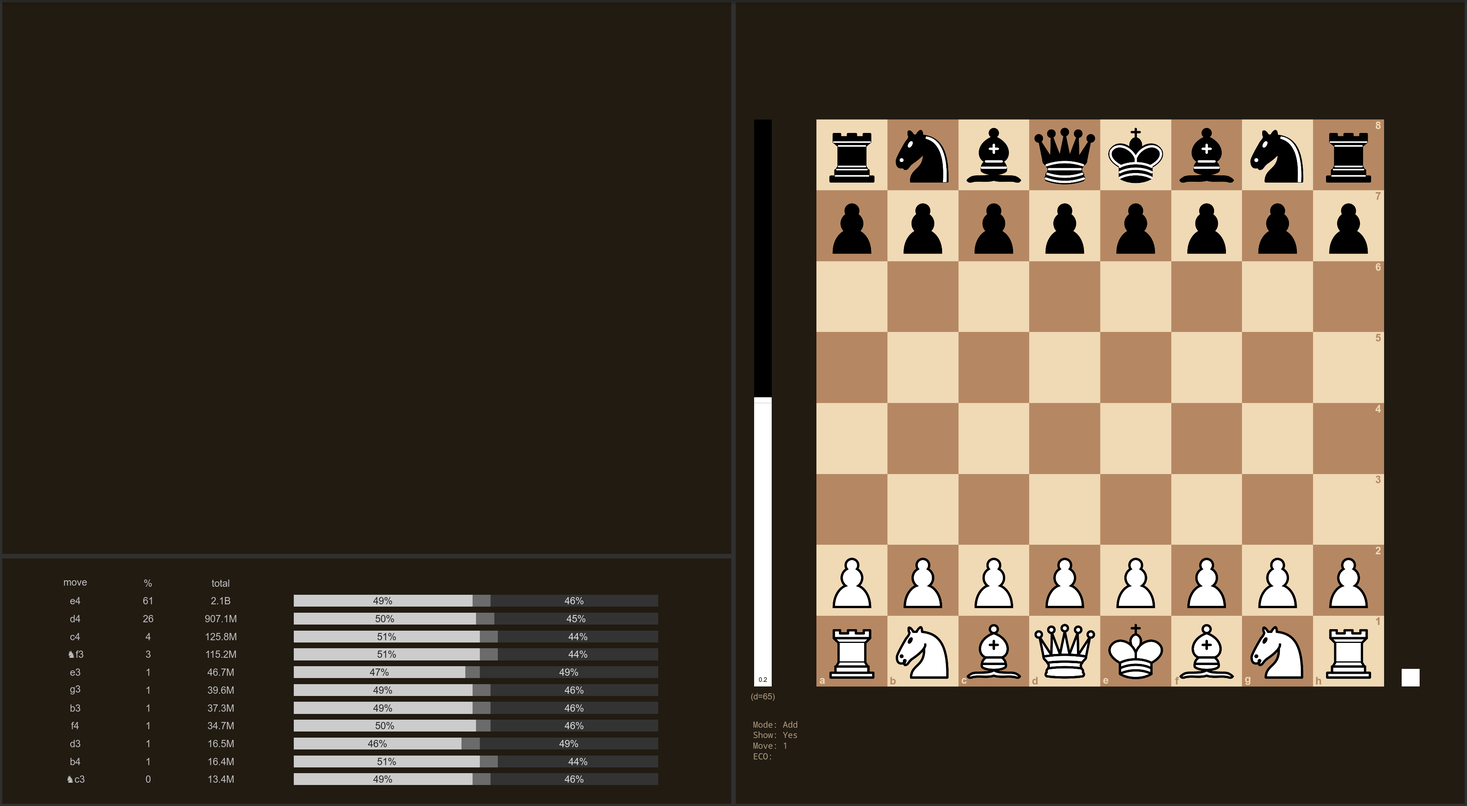
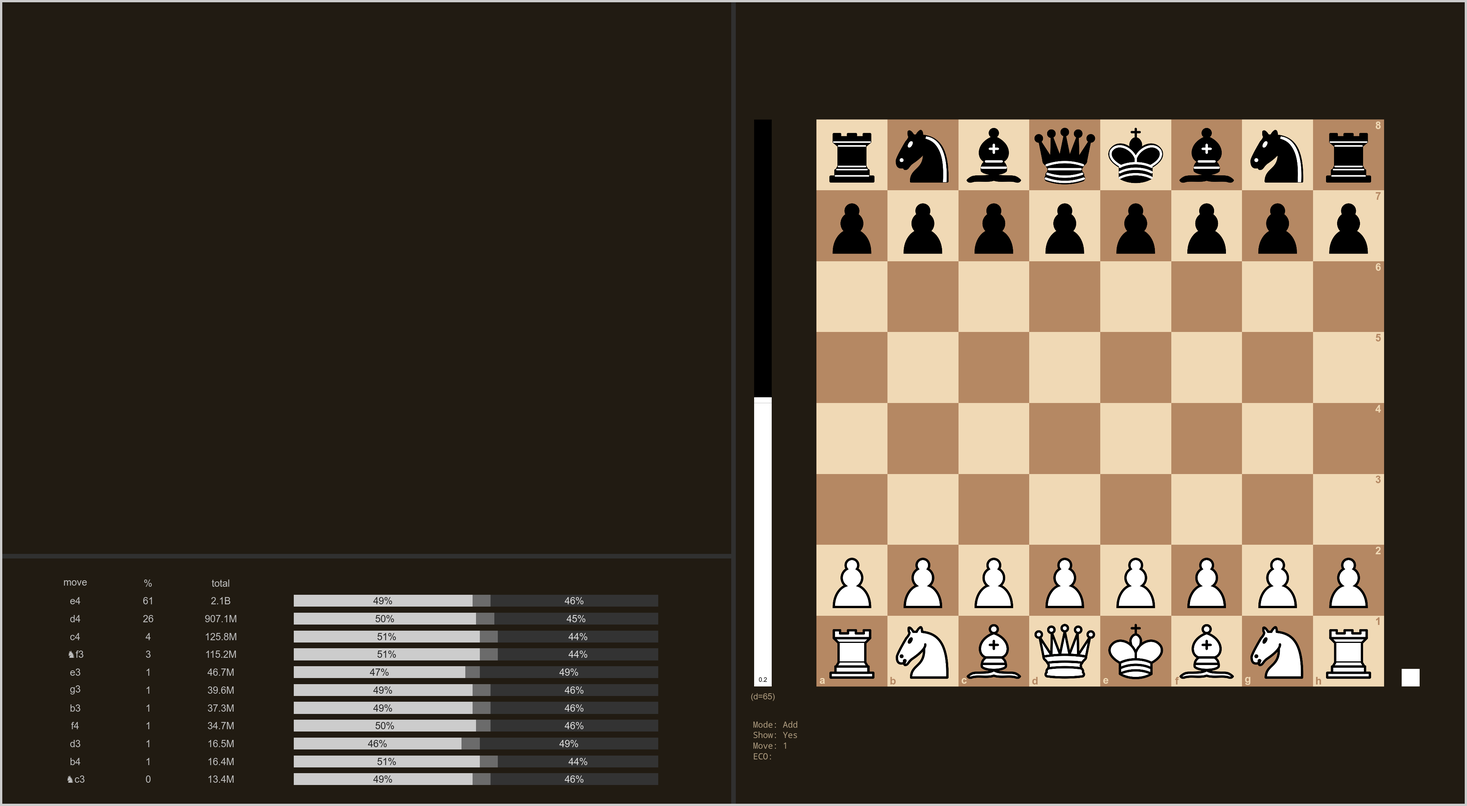
In progress graph, can toggle x-axis now.

Changed region(s): [[0.0, 0.9858, 1.0, 1.0], [0.9688, 0.0, 1.0, 0.0308], [0.0, 0.0, 0.0312, 0.0308]]

diff --git a/docs/reference/chesstrainer-package.html b/docs/reference/chesstrainer-package.html
@@ -31,7 +31,7 @@ The main purpose of the chesstrainer package is to create sequences of moves (li
       </button>
       <span class="navbar-brand">
         <a class="navbar-link" href="../index.html">chesstrainer</a>
-        <span class="version label label-default" data-toggle="tooltip" data-placement="bottom" title="">0.9-179</span>
+        <span class="version label label-default" data-toggle="tooltip" data-placement="bottom" title="">0.9-180</span>
       </span>
     </div>
 
@@ -93,7 +93,9 @@ The main purpose of the chesstrainer package is to create sequences of moves (li
 
 
 <p>To start the trainer, run <code><a href="play.html">play()</a></code> from the console. When starting the trainer for the first time, a directory for storing settings, a cache directory, and a directory for storing sequences are created. A few example sequences also come with the package and you will receive a prompt whether to copy these sequences to the sequence directory. To familiarize yourself with the trainer, it would be good to do so. Finally, you will receive a prompt to enter a player name. Choose a name and press enter.</p>
-<p>The trainer then starts in <em>add mode</em> (see the ‘Note’ section at the bottom if you receive an error that the graphics device does not support event handling; for Windows users, see also the ‘Note for Windows Users’ section). For now, click on the window showing the chess board and press <code>&lt;space&gt;</code> (i.e., the space bar), which will switch to the <em>test mode</em> (note: in this manual, key presses are indicated as: <code>&lt;key&gt;</code>). One of the existing sequences will then be chosen at random. The trainer may immediately prompt you to play a certain opening (via a comment at the top of the window), it may make some moves for you, or it may start at a later position during a game. Either way, you will then have to make the correct move based on the position. You do this by either left-clicking and dragging the piece to be played from its current position to the desired target square or by left-clicking on the piece to be moved and then left-clicking on the target square.</p>
+<p><img src="figures/console_first_run.png" width="900"></p>
+<p>The trainer then starts in <em>add mode</em> (see the ‘Note’ section at the bottom if you receive an error that the graphics device does not support event handling; for Windows users, see also the ‘Note for Windows Users’ section). For now, click on the window showing the chess board and press <code>&lt;space&gt;</code> (i.e., the space bar), which will switch to <em>test mode</em> (note: in this manual, key presses are indicated as: <code>&lt;key&gt;</code>). One of the existing sequences will then be chosen at random. The trainer may immediately prompt you to play a certain opening (via a comment at the top of the window), it may make some moves for you, or it may start at a later position during a game. Either way, you will then have to make the correct move based on the position and instructions. You do this by either left-clicking and dragging the piece to be played from its current position to the desired target square or by left-clicking on the piece to be moved and then left-clicking on the target square.</p>
+<p><img src="figures/play_sequence.png" width="900"></p>
 <p>Sidenote: If the text on the bottom or other visual elements are cut off, you can use the <code>&lt;{&gt;</code> and <code>&lt;}&gt;</code> keys to decrease/increase the margin width.</p>
 <p>The trainer will then make the next move, after which you will then again have to make the correct move. This will continue until the end of the sequence. If you do not know what the correct move is, the <code>&lt;h&gt;</code> key will provide a hint showing which piece to move. Pressing <code>&lt;h&gt;</code> for a second time will show the target square. Once the sequence has ended, left-clicking starts a new sequence.</p>
 <p>In <em>test mode</em>, information is shown at the bottom about the current mode, the name of the current sequence, the player name, the current move number and the total number of moves of the sequence, the number of rounds (how many times the sequence has been played so far), the age of the sequence (how many days ago the sequence was last played), the estimated difficulty of the sequence (see below), and the sequence score (also see below).</p>
@@ -107,7 +109,11 @@ The main purpose of the chesstrainer package is to create sequences of moves (li
 <p>The trainer keeps track of a score for each sequence. For a new sequence, the score starts out at 100 points. The score is multiplied by 0.8 after completing a sequence without any mistakes. When making a wrong move when playing a sequence, the score is increased by 40 points (up to a maximum of 100). You can use the <code>&lt;t&gt;</code> key to take back the score adjustment after making a wrong move (but you should only do this when making the wrong move accidentally). Receiving a hint with the <code>&lt;h&gt;</code> key increases the score by 20 points (40 points when asking for both the starting and the target square, so this is equivalent to making a mistake).</p>
 <p>The trainer uses the score to choose the next sequence. Sequences with higher scores have a higher chance to be presented. The probability of playing a particular sequence is computed with \(p_i = s_i^e / \sum s_i^e\), where \(s_i\) is the score of the \(i\)th sequence and \(e\) is the ‘exponent value’. This is set to 2 by default and enhances the probability that sequences with higher scores are more likely to be played. The exponent value can be adjusted with the <code>&lt;^&gt;</code> (or <code>&lt;6&gt;</code>) key. Setting the exponent value to 0 makes all sequences equally likely to be played. Setting it to a large value (e.g., 10) makes it very likely that the sequence with the highest score is played next. The score for the current sequence can be set manually with the <code>&lt;%&gt;</code> key. Setting the score to 0 means that the sequence has a zero probability of being presented.</p>
 <p>Using the <code>&lt;M&gt;</code> key, you can trigger a mistake. This is useful if you made the correct move(s) but with a lot of uncertainty and want to increase the chances that you will encounter the sequence again in the future.</p>
-<p>After completing a sequence, the current score for the sequence is saved (together with the number of times that the sequence has been played and when it was last played) to the sequence file. This way, your progress in learning the sequence is saved permanently across sessions. Using the <code>&lt;g&gt;</code> key, a progress graph (showing the sequence scores over consecutive rounds) for the current sequence can be shown (if the sequence has been played before). This is useful to check whether progress is being made in learning the sequence. You can zoom into the graph by left-clicking twice (once for the start and once for the end of the interval). This can be repeated to zoom in further. Clicking the right mouse button zooms all the way out. Clicking outside of the graph, right-clicking anywhere when zoomed out, or the <code>&lt;escape&gt;</code> key closes the graph.</p>
+<p>After completing a sequence, the current score for the sequence is saved (together with the number of times that the sequence has been played and when it was last played) to the sequence file. This way, your progress in learning the sequence is saved permanently across sessions. Using the <code>&lt;g&gt;</code> key, a progress graph (showing the sequence scores over consecutive rounds) for the current sequence can be shown (if the sequence has been played before). This is useful to check whether progress is being made in learning the sequence. You can zoom into the graph by left-clicking twice (once for the start and once for the end of the interval). This can be repeated to zoom in further. Clicking the right mouse button zooms all the way out. With the <code>&lt;down&gt;/&lt;up&gt;</code> arrows (or the middle mouse button), you can toggle whether the rounds shown on the x-axis are equidistant or their distance is based on their actual dates. Clicking outside of the graph, right-clicking anywhere when zoomed out, or the <code>&lt;escape&gt;</code> key closes the graph.</p>
+<p>Below you can see examples of progress graphs for two sequences, one which was easy to learn and memorize, while the other one is more difficult.</p>
+<p><img src="figures/progress_graph.png" width="900"></p>
+<p></p>
+<p></p>
 <p>Using the <code>&lt;G&gt;</code> key, you can toggle whether the progress graph will be automatically shown at the end of each completed sequence.</p>
 <p>With <code>&lt;F11&gt;</code> (or <code>&lt;Ctrl-i&gt;</code>), you can obtain a plot of the average score of all sequences as a function of each completed sequence during the current session. The horizontal dotted line corresponds to the average score at the beginning of the session. This is useful to check whether progress is being made in learning all of the sequences.</p>
     </div>
@@ -172,16 +178,16 @@ The main purpose of the chesstrainer package is to create sequences of moves (li
     <h2>Adding New Sequences</h2>
 
 
-<p>As described above, the trainer comes with a few example sequences to teach you how it can be used, but serious use of the trainer requires that you add your own sequences. With <code>&lt;space&gt;</code>, you can switch into the <em>add mode</em>, where you can enter new sequences. The first thing to decide is whether the player should play with white or black. With the <code>&lt;f&gt;</code> key, the board can be flipped accordingly (the player always plays with the pieces shown at the bottom). Next, you need to decide whether some moves will be automatically played at the beginning of a sequence. If some moves should be played automatically, then simply make these moves on the board. Once you arrive at the position where a player should start making moves, press <code>&lt;z&gt;</code> (note that ‘Show’ at the bottom left then turns from ‘Yes’ to ‘No’). Now continue playing the line as it should be played. If you make a mistake when playing a move, use the <code>&lt;t&gt;</code> key to take the move back. Once the sequence is complete, use the <code>&lt;s&gt;</code> key to save the sequence. You will be prompted for a filename in the console. Once the sequence has been saved, it will automatically become part of the sequences that may be presented in the <em>test mode</em>.</p>
+<p>As described above, the trainer comes with a few example sequences to teach you how it can be used, but serious use of the trainer requires that you add your own sequences. With <code>&lt;space&gt;</code>, you can switch into <em>add mode</em>, where you can enter new sequences. The first thing to decide is whether the player should play with white or black. With the <code>&lt;f&gt;</code> key, the board can be flipped accordingly (the player always plays with the pieces shown at the bottom). Next, you need to decide whether some moves will be automatically played at the beginning of a sequence. If some moves should be played automatically, then simply make these moves on the board. Once you arrive at the position where a player should start making moves, press <code>&lt;z&gt;</code> (note that ‘Show’ at the bottom left then turns from ‘Yes’ to ‘No’). Now continue playing the line as it should be played. If you make a mistake when playing a move, use the <code>&lt;t&gt;</code> key to take the move back. Once the sequence is complete, use the <code>&lt;s&gt;</code> key to save the sequence. You will be prompted for a filename in the console. Once the sequence has been saved, it will automatically become part of the sequences that may be presented in <em>test mode</em>.</p>
 <p>A sequence may also start immediately at the starting position. Here, you will press <code>&lt;z&gt;</code> right at the beginning. Since it is then essentially impossible for a player to know what they should play (since there are many sensible moves one could make from the starting position of a chess game), you will have to instruct the player what they should do. Using the <code>&lt;c&gt;</code> key, you can add a comment to the current move which will be shown to the player (before they have to make the move). For example, you could tell the player to play the Spanish (Ruy Lopez) opening. You should then make the appropriate moves on the board.</p>
 <p>Comments can be added to any move using the <code>&lt;c&gt;</code> key. These will be shown before the move is played. This may be useful if one could venture into multiple sensible lines in a given position. You would then have to instruct the player to make a particular move (either by telling the player directly which move to make or giving some appropriate hint, such as the name of a particular line/variation). Comments can also be used to mention variation names or other useful information. To wrap comments across lines, you can use ‘<code>\n</code>’ in the comment text.</p>
 <p>If a sequence should commence not at the starting position of a chess game, but later on, you can move the pieces into the desired position and then use the <code>&lt;0&gt;</code> key to make the current position the starting position for a particular sequence. Alternatively, you can use <code>&lt;b&gt;</code> to start a board editor (see below for details).</p>
 <p>Occasionally, you may want to construct sequences where the player also has to make the moves of the opposing side (i.e., for the computer). The <code>&lt;Z&gt;</code> key can be used to toggle whether the computer moves will be automatically played or not (when this is toggled off, then this will also be indicated at the bottom left). For example, you could memorize entire games by pressing the <code>&lt;z&gt;</code> and <code>&lt;Z&gt;</code> keys at the very beginning and then making all moves of the game. A comment should then be added before making the first move to provide a reminder which game should be played.</p>
 <p>The <code>&lt;e&gt;</code> key can be used to edit the comments for a particular sequence. This way, you can also add a ‘start comment’ and/or an ‘end comment’ to a particular sequence (the former will be shown in an overlay box before the sequence starts, the latter at the top after the last move). The <code>&lt;E&gt;</code> key opens up the <code><a href="https://rdrr.io/r/utils/edit.html" class="external-link">data editor</a></code> on the data frame that contains the moves for the current sequence. This can also be used to add, edit, and remove comments in the <code>comment</code> column or make adjustments to the other columns (but this should only be done if their meaning is clear).</p>
 <p>Once a number of moves have been made for the sequence, the <code>&lt;left&gt;</code> and <code>&lt;right&gt;</code> arrow keys can be used to go back or forward one move. With the <code>&lt;1&gt;</code> or <code>&lt;up&gt;</code> arrow keys, you can jump to the first move that needs to be made by the player (i.e., the first move where ‘Show’ is set to ‘No’) or to the very beginning of the sequence if one is already at or before this position in the sequence. The <code>&lt;2&gt;</code> or <code>&lt;down&gt;</code> arrow keys jump to the very end of the sequence. The <code>&lt;3&gt;</code>, <code>&lt;4&gt;</code>, and <code>&lt;5&gt;</code> keys jump to the first quarter, middle, and third quarter of the sequence (when the sequence consists of very few moves, these different positions may not be differentiable). Note that when making a move when not looking at the very end of the sequence, then this deletes all subsequent moves that were already part of the sequence.</p>
-<p>With the <code>&lt;?&gt;</code> key, you can search for sequences that start with the same moves that have been entered/played so far (this also works in the <em>test mode</em>). If any matching sequences are found, they will be shown in the console (followed by the next moves that are part of these sequences). A prompt will ask if they should be selected. This is useful for checking what sequences are already available based on some initial moves (and then practicing these sequences) or finding other sequences similar to the one currently being played. Alternatively, with the <code>&lt;'&gt;</code> key, you can search for sequences that include the current position anywhere in the sequence (irrespective of the particular moves that led to the position). The <code>&lt;]&gt;</code> key does the same thing, but only shows the sequences (without selecting them). The <code>&lt;[&gt;</code> key does the same thing, but only shows a frequency table of the next moves in the sequences found. With the <code>&lt;;&gt;</code> key, you can search for sequences that end on the current position. With the <code>&lt;:&gt;</code> key, you can search for sequences where the last-moved piece is on its current square. Note that all of these searches account for whether the board is flipped or not (i.e., only sequences are shown where the player is either moving the white or black pieces).</p>
+<p>With the <code>&lt;?&gt;</code> key, you can search for sequences that start with the same moves that have been entered/played so far (this also works in <em>test mode</em>). If any matching sequences are found, they will be shown in the console (followed by the next moves that are part of these sequences). A prompt will ask if they should be selected. This is useful for checking what sequences are already available based on some initial moves (and then practicing these sequences) or finding other sequences similar to the one currently being played. Alternatively, with the <code>&lt;'&gt;</code> key, you can search for sequences that include the current position anywhere in the sequence (irrespective of the particular moves that led to the position). The <code>&lt;]&gt;</code> key does the same thing, but only shows the sequences (without selecting them). The <code>&lt;[&gt;</code> key does the same thing, but only shows a frequency table of the next moves in the sequences found. With the <code>&lt;;&gt;</code> key, you can search for sequences that end on the current position. With the <code>&lt;:&gt;</code> key, you can search for sequences where the last-moved piece is on its current square. Note that all of these searches account for whether the board is flipped or not (i.e., only sequences are shown where the player is either moving the white or black pieces).</p>
 <p>With <code>&lt;.&gt;</code>, you can select the last saved sequence (if one was saved before in the current session). This is useful for checking a newly created sequence in <em>test mode</em> and/or creating multiple branching lines from the ending position of this sequence. After selecting a single sequence, the <code>&lt;a&gt;</code> key will create a copy of the current sequence, which can then be extended with additional moves and saved as a new sequence. The same also works in <em>test mode</em> when playing a particular sequence. The <code>&lt;A&gt;</code> key does the same thing, but immediately switches to <em>add mode</em> starting at the current position. At the end of a sequence, the right mouse button also switches to <em>add mode</em>.</p>
-<p>In <em>add</em> or <em>test mode</em>, you can bookmark a sequence with the <code>&lt;&lt;&gt;</code> key. In <em>add mode</em>, the last saved sequence is bookmarked. In <em>test mode</em>, the currently played sequence is bookmarked. With the <code>&lt;&gt;&gt;</code> key, you can select and manage bookmarks (use <code>&lt;F1&gt;</code> while managing the bookmarks to obtain help). This is useful for creating multiple branching lines from the ending position of certain sequences or to remember sequences that you want to come back to at a later point.</p>
+<p>In <em>add mode</em> or <em>test mode</em>, you can bookmark a sequence with the <code>&lt;&lt;&gt;</code> key. In <em>add mode</em>, the last saved sequence is bookmarked. In <em>test mode</em>, the currently played sequence is bookmarked. With the <code>&lt;&gt;&gt;</code> key, you can select and manage bookmarks (use <code>&lt;F1&gt;</code> while managing the bookmarks to obtain help). This is useful for creating multiple branching lines from the ending position of certain sequences or to remember sequences that you want to come back to at a later point.</p>
 <p>When creating new opening sequences, the trainer tries to recognize the opening played and indicates the ECO code and opening name at the bottom left.</p>
 <p>Also, the trainer automatically recognizes move transpositions (i.e., if there are sequences with the same position that were obtained via a different move order or via different moves). If such sequences are found, their names are printed to the console. This check can be toggled on/off with the <code>&lt;T&gt;</code> key.</p>
 <p>Also, any moves made are compared against the existing sequences. If there are sequences with the same current position and the move made is not one of the moves that are part of these sequences, then this will be noted at the top. You can toggle this on/off with the <code>&lt;C&gt;</code> key.</p>
@@ -191,7 +197,7 @@ The main purpose of the chesstrainer package is to create sequences of moves (li
     <h2>Querying the Lichess Database</h2>
 
 
-<p>When pressing the <code>&lt;i&gt;</code> key, the trainer queries the Lichess games database (<code>https://database.lichess.org/#standard_games</code>) for the current position. If the position is found, the most frequently played moves are shown in the console, including the percentage of games won by white, the percentage of games drawn, and the percentage of games won by black.</p>
+<p>When pressing the <code>&lt;i&gt;</code> key, the trainer queries the Lichess games database (<code>https://database.lichess.org</code>) for the current position. If the position is found, the most frequently played moves are shown in the console, including the percentage of games won by white, the percentage of games drawn, and the percentage of games won by black.</p>
 <p>With <code>&lt;F8&gt;</code>, you can adjust some related settings, namely which time controls and which player ratings should be included in the query, whether to query the regular player database or the masters database (for the latter, the time control and rating settings are not relevant), the minimum frequency of moves, the minimum play percentage of the moves, the length of the bars indicating the outcome percentages, how to sort the moves (either by their frequency or by their win percentage), whether to invert the bar (in case you use white text on a dark background in the console), and where to display the moves (either in the console or in a separate plotting window).</p>
 <p>When using a separate plotting window, one should arrange the various windows so that the board, console, and window for the Lichess moves are placed side-by-side. A possible arrangement is shown below.</p>
 <p><img src="figures/arrangement.png" width="900"></p>
@@ -244,7 +250,7 @@ The main purpose of the chesstrainer package is to create sequences of moves (li
 <p>Using <code>&lt;t&gt;</code>, you can take back the last move (i.e., the move played by the computer and your own move), so that it is again your move to play.</p>
 <p>As when adding sequences, the moves made are compared against the existing sequences. If there are sequences with the same current position and the move made is not one of the moves that are part of these sequences, then this will be noted at the top. You can toggle this on/off with the <code>&lt;C&gt;</code> key.</p>
 <p>The <code>&lt;left&gt;</code>, <code>&lt;right&gt;</code>, <code>&lt;up&gt;</code>, and <code>&lt;down&gt;</code> arrows and the <code>&lt;1&gt;</code>, <code>&lt;2&gt;</code>, <code>&lt;3&gt;</code>, <code>&lt;4&gt;</code>, and <code>&lt;5&gt;</code> keys work the same as described earlier (except that <code>&lt;1&gt;</code> always jumps to the start of the game). This automatically takes you into the <em>analysis mode</em>, where you can try out variations and/or force the computer to make a different move from a given position. Before doing so, you can store the current game (i.e., sequence of moves and current position) as the main variation with the <code>&lt;0&gt;</code> key. Using the <code>&lt;9&gt;</code> key, you can jump back to the end of this main variation.</p>
-<p>Once in <em>play mode</em>, the <code>&lt;\&gt;</code> key toggles between the analysis and the play mode. On the other hand, <code>&lt;space&gt;</code> takes you back to the mode that was active before the <em>play mode</em> was initially chosen.</p>
+<p>When in <em>play mode</em>, the <code>&lt;\&gt;</code> key toggles between the analysis and the play mode. On the other hand, <code>&lt;space&gt;</code> takes you back to the mode that was active before the <em>play mode</em> was initially chosen.</p>
     </div>
     <div id="play-against-the-lichess-database">
     <h2>Play Against the Lichess Database</h2>

diff --git a/docs/reference/playsound.html b/docs/reference/playsound.html
@@ -29,7 +29,7 @@
       </button>
       <span class="navbar-brand">
         <a class="navbar-link" href="../index.html">chesstrainer</a>
-        <span class="version label label-default" data-toggle="tooltip" data-placement="bottom" title="">0.9-179</span>
+        <span class="version label label-default" data-toggle="tooltip" data-placement="bottom" title="">0.9-180</span>
       </span>
     </div>
 
@@ -103,7 +103,7 @@
 <p>Windows does not provide a simple way to play sound files from the command line by default. To make sounds work under Windows, one can download the lightweight and open-source mpg123 player from <code>https://www.mpg123.de</code> (click on ‘download’, go to ‘Win32 and Win64 binaries’, choose the link for the 64 bit binary, download the ‘static’ zip file, extract it to some directory on your computer, and place this directory on your system path; if you do not know how to do this last step, see: <code>https://stackoverflow.com/q/9546324/2615367</code>).</p>
 <p>You can also use the <code><a href="install_mpg123.html">install_mpg123</a></code> function to install the mpg123 player automatically. When running the trainer, it will automatically detect this installation and make use of it to play sounds.</p>
 <p>Unfortunately, mpg123 cannot control the output volume, so adjusting the sound volume via the trainer has no effect for this player.</p>
-<p><em>For advanced users:</em></p>
+<p><strong>For advanced users:</strong></p>
 <p>If the sound is not working, but you know what the appropriate command is that will work on your system, you can write your own <code>playsound</code> function (see the code for <code>playsound</code> to use as a template). Then use <code>assignInNamespace("playsound", playsound, ns="chesstrainer")</code> to replace the <code>playsound()</code> function with your own version. Then use the example code below to test if the sound is working.</p>
     </div>
     <div id="value">

diff --git a/docs/news/index.html b/docs/news/index.html
@@ -29,7 +29,7 @@
       </button>
       <span class="navbar-brand">
         <a class="navbar-link" href="../index.html">chesstrainer</a>
-        <span class="version label label-default" data-toggle="tooltip" data-placement="bottom" title="">0.9-179</span>
+        <span class="version label label-default" data-toggle="tooltip" data-placement="bottom" title="">0.9-180</span>
       </span>
     </div>
 
@@ -79,7 +79,7 @@
     </div>
 
     <div class="section level2">
-<h2 class="page-header" data-toc-text="0.9-179" id="chesstrainer-09-179-2026-07-24">chesstrainer 0.9-179 (2026-07-24)<a class="anchor" aria-label="anchor" href="#chesstrainer-09-179-2026-07-24"></a></h2>
+<h2 class="page-header" data-toc-text="0.9-180" id="chesstrainer-09-180-2026-07-25">chesstrainer 0.9-180 (2026-07-25)<a class="anchor" aria-label="anchor" href="#chesstrainer-09-180-2026-07-25"></a></h2>
 <ul><li>lots of improvements since the initial version (way too many to list here)</li></ul></div>
     <div class="section level2">
 <h2 class="page-header" data-toc-text="0.1-0" id="chesstrainer-01-0-2024-12-17">chesstrainer 0.1-0 (2024-12-17)<a class="anchor" aria-label="anchor" href="#chesstrainer-01-0-2024-12-17"></a></h2>

diff --git a/docs/authors.html b/docs/authors.html
@@ -29,7 +29,7 @@
       </button>
       <span class="navbar-brand">
         <a class="navbar-link" href="index.html">chesstrainer</a>
-        <span class="version label label-default" data-toggle="tooltip" data-placement="bottom" title="">0.9-179</span>
+        <span class="version label label-default" data-toggle="tooltip" data-placement="bottom" title="">0.9-180</span>
       </span>
     </div>
 
@@ -94,13 +94,13 @@
 
     <p>Viechtbauer W (2026).
 <em>chesstrainer: Chess Training Program</em>.
-R package version 0.9-179, <a href="https://github.com/wviechtb/chesstrainer" class="external-link">https://github.com/wviechtb/chesstrainer</a>.
+R package version 0.9-180, <a href="https://github.com/wviechtb/chesstrainer" class="external-link">https://github.com/wviechtb/chesstrainer</a>.
 </p>
     <pre>@Manual{,
   title = {chesstrainer: Chess Training Program},
   author = {Wolfgang Viechtbauer},
   year = {2026},
-  note = {R package version 0.9-179},
+  note = {R package version 0.9-180},
   url = {https://github.com/wviechtb/chesstrainer},
 }</pre>
 

diff --git a/docs/404.html b/docs/404.html
@@ -52,7 +52,7 @@
       </button>
       <span class="navbar-brand">
         <a class="navbar-link" href="https://wviechtb.github.io/chesstrainer/index.html">chesstrainer</a>
-        <span class="version label label-default" data-toggle="tooltip" data-placement="bottom" title="">0.9-179</span>
+        <span class="version label label-default" data-toggle="tooltip" data-placement="bottom" title="">0.9-180</span>
       </span>
     </div>
 

diff --git a/docs/reference/cleanup.html b/docs/reference/cleanup.html
@@ -29,7 +29,7 @@
       </button>
       <span class="navbar-brand">
         <a class="navbar-link" href="../index.html">chesstrainer</a>
-        <span class="version label label-default" data-toggle="tooltip" data-placement="bottom" title="">0.9-179</span>
+        <span class="version label label-default" data-toggle="tooltip" data-placement="bottom" title="">0.9-180</span>
       </span>
     </div>
 

diff --git a/docs/reference/index.html b/docs/reference/index.html
@@ -29,7 +29,7 @@
       </button>
       <span class="navbar-brand">
         <a class="navbar-link" href="../index.html">chesstrainer</a>
-        <span class="version label label-default" data-toggle="tooltip" data-placement="bottom" title="">0.9-179</span>
+        <span class="version label label-default" data-toggle="tooltip" data-placement="bottom" title="">0.9-180</span>
       </span>
     </div>
 

diff --git a/docs/reference/install_mpg123.html b/docs/reference/install_mpg123.html
@@ -29,7 +29,7 @@
       </button>
       <span class="navbar-brand">
         <a class="navbar-link" href="../index.html">chesstrainer</a>
-        <span class="version label label-default" data-toggle="tooltip" data-placement="bottom" title="">0.9-179</span>
+        <span class="version label label-default" data-toggle="tooltip" data-placement="bottom" title="">0.9-180</span>
       </span>
     </div>
 

diff --git a/docs/reference/install_stockfish.html b/docs/reference/install_stockfish.html
@@ -29,7 +29,7 @@
       </button>
       <span class="navbar-brand">
         <a class="navbar-link" href="../index.html">chesstrainer</a>
-        <span class="version label label-default" data-toggle="tooltip" data-placement="bottom" title="">0.9-179</span>
+        <span class="version label label-default" data-toggle="tooltip" data-placement="bottom" title="">0.9-180</span>
       </span>
     </div>
 

diff --git a/docs/reference/play.html b/docs/reference/play.html
@@ -29,7 +29,7 @@
       </button>
       <span class="navbar-brand">
         <a class="navbar-link" href="../index.html">chesstrainer</a>
-        <span class="version label label-default" data-toggle="tooltip" data-placement="bottom" title="">0.9-179</span>
+        <span class="version label label-default" data-toggle="tooltip" data-placement="bottom" title="">0.9-180</span>
       </span>
     </div>
 

diff --git a/docs/index.html b/docs/index.html
@@ -53,7 +53,7 @@
       </button>
       <span class="navbar-brand">
         <a class="navbar-link" href="index.html">chesstrainer</a>
-        <span class="version label label-default" data-toggle="tooltip" data-placement="bottom" title="">0.9-179</span>
+        <span class="version label label-default" data-toggle="tooltip" data-placement="bottom" title="">0.9-180</span>
       </span>
     </div>
 

diff --git a/docs/pkgdown.css b/docs/pkgdown.css
@@ -382,3 +382,13 @@ div.csl-right-inline {
 div.csl-indent {
   margin-left: 2em;
 }
+
+em {
+  /*font-style: italic;*/
+  font-style: normal;
+  /*font-weight: bold;*/
+  background-color: rgba(128, 128, 128, 0.15);
+  padding: 0.05em 0.2em;
+  border-radius: 3px;
+}
+
